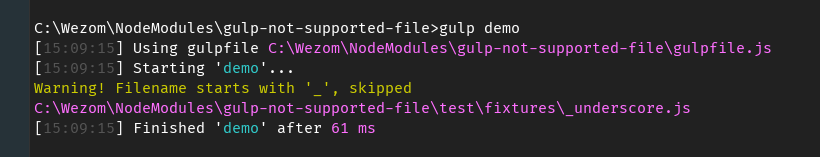
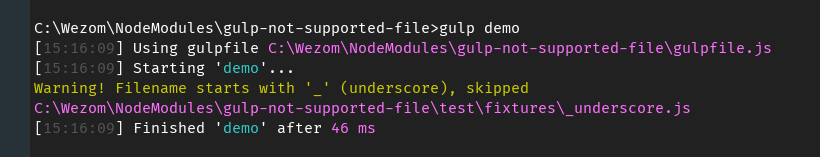
1.1.3

diff --git a/index.js b/index.js
@@ -88,28 +88,28 @@ module.exports = function notSupportedFile (file, pluginError, options = {}) {
 		)];
 	}
 
+	if (noUnderscore) {
+		let hasUnderscore = path.basename(file.path).indexOf('_') === 0;
+
+		if (hasUnderscore) {
+			if (silent !== true) {
+				console.log(chalk.yellow('Warning! Filename starts with \'_\' (underscore), skipped'));
+				console.log(chalk.magenta(file.path));
+			}
+			return ['isUnderscore'];
+		}
+	}
+
 	if (noEmpty) {
 		let fileContent = String(file.contents);
 
 		fileContent = fileContent.replace(/\s|\t|\n|\r/g, '');
 		if (!fileContent.length) {
 			if (silent !== true) {
-				console.log(chalk.yellow('Warning! File with empty content, skipped'));
+				console.log(chalk.yellow('Warning! Filename with empty content, skipped'));
 				console.log(chalk.magenta(file.path));
 			}
 			return ['isEmpty'];
-		}
-	}
-
-	if (noUnderscore) {
-		let hasUnderscore = path.basename(file.path).indexOf('_') === 0;
-
-		if (hasUnderscore) {
-			if (silent !== true) {
-				console.log(chalk.yellow('Warning! File starting with \'_\', skipped'));
-				console.log(chalk.magenta(file.path));
-			}
-			return ['isUnderscore'];
 		}
 	}
 

diff --git a/gulpfile.js b/gulpfile.js
@@ -1,8 +1,8 @@
 'use strict';
 
 /**
- * @fileOverview Testing with `gulp-mocha` and `chai`
- * @author Oleg Dutchenko <dutchenko.o.wezom@gmail.com>
+ * @fileOverview Testing with `gulp-mocha`
+ * @author Oleg Dutchenko <dutchenko.o.dev@gmail.com>
  */
 
 // ----------------------------------------

diff --git a/README.md b/README.md
@@ -117,31 +117,40 @@ let notSupported = notSupportedFile(file, pluginError, options);
 ```
 
 
-#### `noEmpty`
-
-type `boolean` /
-default `true`
-
-_File with empty content will be skipped_  
-_**Note!** Spaces, tabs and newlines will be treated as empty content._  
-_return `['isEmpty']` on fail_
-
 
 #### `noUnderscore`
 
 type `boolean` /
 default `true`
 
-_File starting with `_` will be skipped_  
-_return `['isUnderscore']` on fail_
+File with empty content will be skipped and not using in stream next.  
 
+_You will receive message in console if it happens_  
+_Example of log:_
+
+![no-empty log example](https://raw.githubusercontent.com/dutchenkoOleg/gulp-not-supported-file/master/assets/no-underscore.png)
+
+
+#### `noEmpty`
+
+type `boolean` /
+default `true`
+
+File with empty content will be skipped and not using in stream next.  
+Return `['isEmpty']`  
+_**Note!** Spaces, tabs and newlines will be treated as empty content._  
+ 
+_You will receive message in console if it happens_stream next._  
+_Example of log:_
+
+![no-empty log example](https://raw.githubusercontent.com/dutchenkoOleg/gulp-not-supported-file/master/assets/no-empty.png)
 
 #### `silent`
 
 type `boolean` /
 default `false`
 
-_No console logs if set `true`_
+No logs about `noEmpty` and `noUnderscore` files
 
 ---
 
@@ -156,7 +165,7 @@ yarn add gulp-not-supported-file
 ## Tests
 
 1. `npm test` for testing code style and run mocha tests
-1. `npm run happiness-fix` for automatically fix problems 
+1. `npm run happiness-fix` for automatically fix most of problems with code style 
 
 ## Changelog
 

diff --git a/CHANGELOG.md b/CHANGELOG.md
@@ -6,6 +6,17 @@
 > _This project adheres to [Semantic Versioning](http://semver.org/)._
 
 
+### [1.1.3] - 2017-05-26
+
+#### Added
+
+- [snazzy](https://github.com/feross/snazzy) formatter for using with [happiness](https://github.com/JedWatson/happiness) lint in npm test
+
+#### Changed
+
+- Updated information and fix small bugs
+
+
 ### [1.1.1] - 2017-05-26
 
 #### Changed
